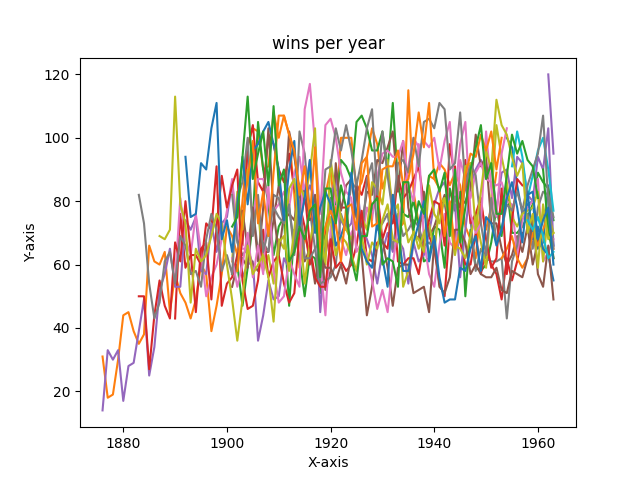
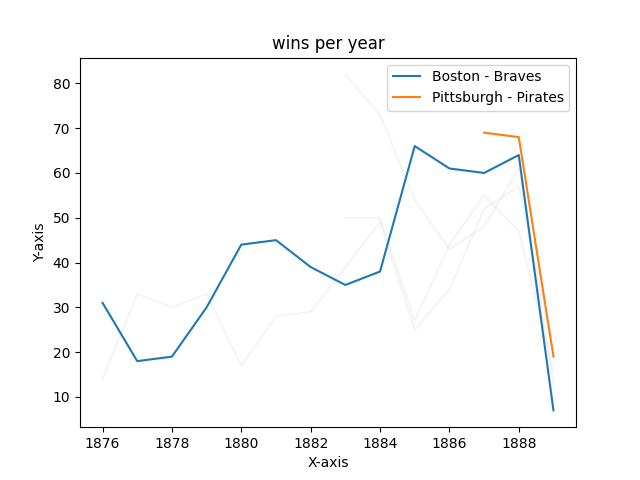
first draft greyed out graph

diff --git a/final-project/src/utils/graph_utils.py b/final-project/src/utils/graph_utils.py
@@ -9,9 +9,10 @@ MIN_TEAM_LIFETIME_YEARS = 10
 
 
 def extract_win_stats(input_df):
-    home_games_won_out = {}
-    visiting_games_won_out = {}
-    overall_games_won_out = {}
+    home_games_won_per_year = {}
+    visiting_games_won_per_year = {}
+    overall_games_won_per_year = {}
+    overall_games_won_total_sorted = {}
 
     teams = np.unique(input_df[['v_name_translate', 'h_name_translate']].values.ravel())
     for curr_team in teams:
@@ -35,12 +36,18 @@ def extract_win_stats(input_df):
                             for key in set(curr_home_games_won) | set(curr_visiting_games_won)}
 
         if len(curr_home_games_won) > 0:
-            home_games_won_out[curr_team] = curr_home_games_won
+            home_games_won_per_year[curr_team] = dict(sorted(curr_home_games_won.items()))
 
         if len(curr_visiting_games_won) > 0:
-            visiting_games_won_out[curr_team] = curr_visiting_games_won
+            visiting_games_won_per_year[curr_team] = dict(sorted(curr_visiting_games_won.items()))
 
         if len(curr_merged_wins) > 0:
-            overall_games_won_out[curr_team] = curr_merged_wins
+            overall_games_won_per_year[curr_team] = dict(sorted(curr_merged_wins.items()))
+            overall_games_won_total_sorted[curr_team] = sum(curr_merged_wins.values())
 
-    return home_games_won_out, visiting_games_won_out, overall_games_won_out
+        # overall_games_won_total_sorted = dict(sorted(overall_games_won_total_sorted.items(), key=lambda x: x[1]))
+
+    return home_games_won_per_year,\
+        visiting_games_won_per_year,\
+        overall_games_won_per_year,\
+        overall_games_won_total_sorted

diff --git a/final-project/src/plots/score/score_plot.py b/final-project/src/plots/score/score_plot.py
@@ -1,7 +1,8 @@
 import matplotlib.pyplot as plt
 import numpy as np
-from ...utils.graph_utils import extract_win_stats
+from matplotlib import cm
 
+from ...utils.graph_utils import extract_win_stats
 
 
 def v_score_count(df):
@@ -48,14 +49,21 @@ def vh_score_comparison(df):
 
 
 def winning_teams(df):
-    overall_games_won_out = extract_win_stats(df)[2]
-    # print(overall_games_won_out)
+    games_won_per_year, games_won_total = extract_win_stats(df)[2:4]
 
     fig, ax = plt.subplots()
     ax.set_title('wins per year')
 
-    for curr_team, win_stats in overall_games_won_out.items():
-        ax.plot(win_stats.keys(), win_stats.values(), label=curr_team)
+    highlighted_teams = [
+        max(games_won_total, key=games_won_total.get),
+        min(games_won_total, key=games_won_total.get)
+    ]
+
+    for curr_team, win_stats in games_won_per_year.items():
         ax.set_xlabel('X-axis')
         ax.set_ylabel('Y-axis')
-        # ax.legend()
+        if curr_team in highlighted_teams:
+            ax.plot(win_stats.keys(), win_stats.values(), label=curr_team)
+            ax.legend()
+        else:
+            ax.plot(win_stats.keys(), win_stats.values(), c=cm.gray(0.8),alpha=0.2,zorder=-1)

diff --git a/final-project/src/utils/graph_data_io.py b/final-project/src/utils/graph_data_io.py
@@ -258,10 +258,12 @@ def _add_custom_fields(gamelog_df):
 def read_game_logs():
     print('- started reading csv dataset')
 
-    if os.environ.get('VIS_DEBUG') == 'true':
-        row_count = 100000
-        print("- debug flag set, only reading {} entries".format(row_count))
-        df = pd.read_csv(GAME_LOGS_DATA_WORLD, converters={col: _process_value for col in _dtypeDict.keys()}, nrows=row_count)
+    debug_row_count = os.environ.get('VIS_ROW_COUNT')
+
+    if debug_row_count is not None:
+        print("- debug flag set, only reading {} entries".format(debug_row_count))
+        df = pd.read_csv(GAME_LOGS_DATA_WORLD, converters={col: _process_value for col in _dtypeDict.keys()},
+                         nrows=int(debug_row_count))
     else:
         df = pd.read_csv(GAME_LOGS_DATA_WORLD, converters={col: _process_value for col in _dtypeDict.keys()})
     print('- finished reading csv dataset')
